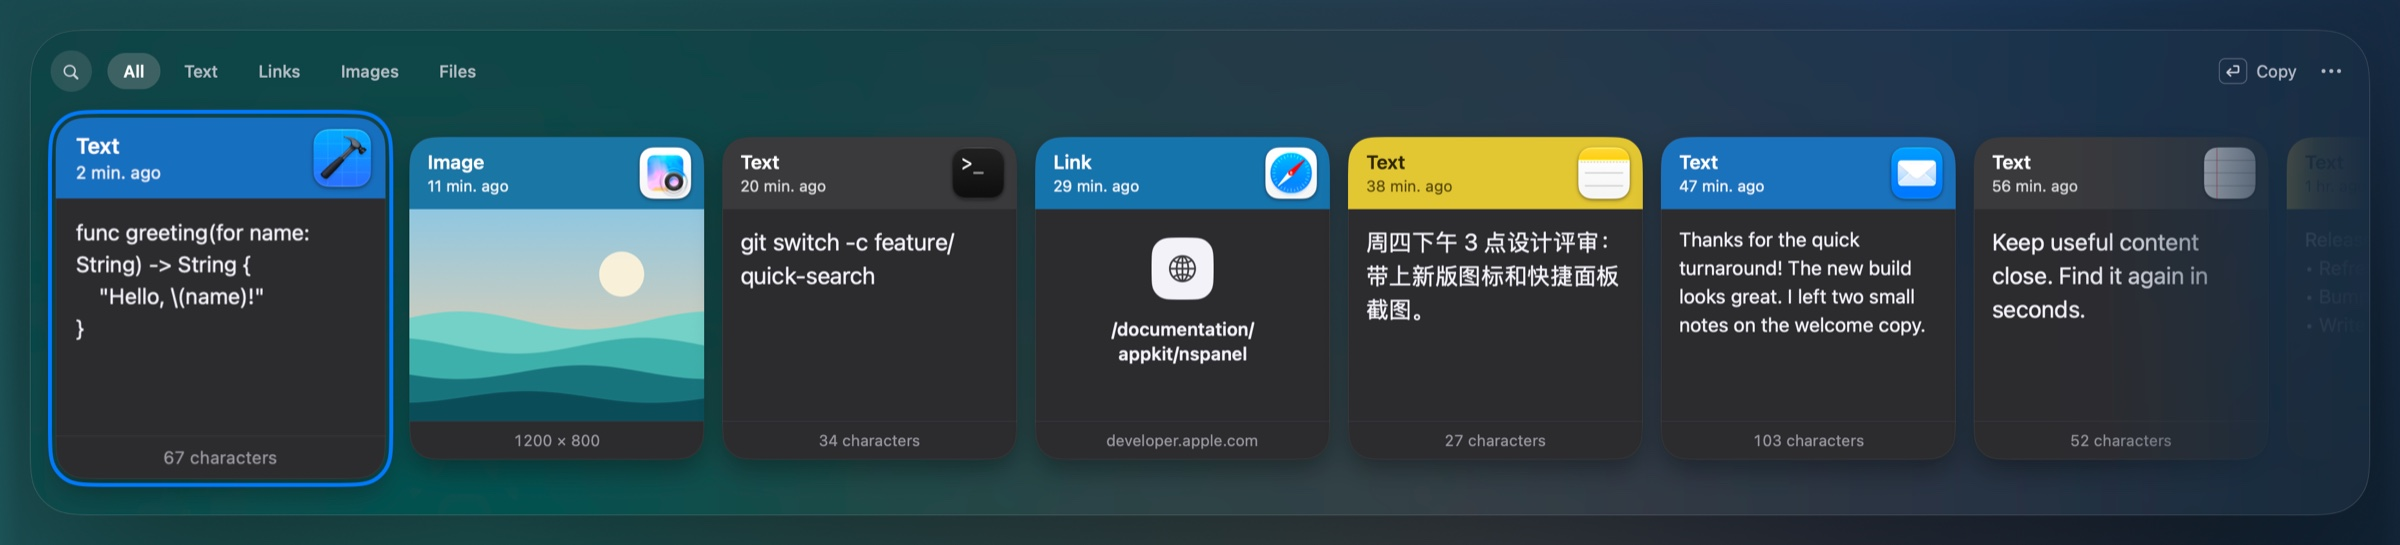
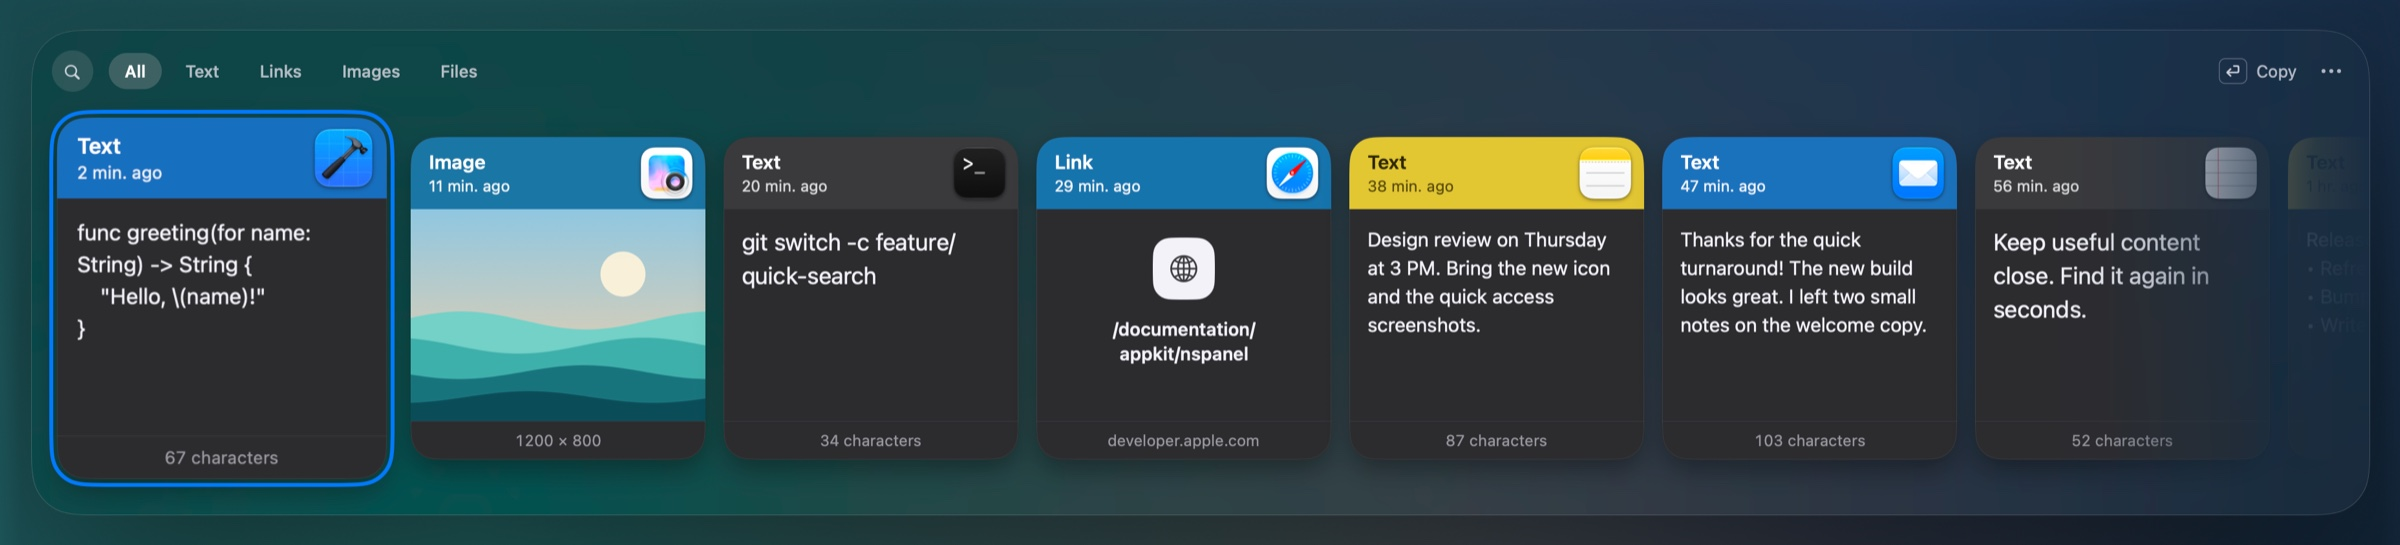
Retake the README screenshots with English-only content
The quick access and library screenshots showed a sample note in Chinese.
Both are retaken from the current main with an English sample instead,
using the same synthetic library, backdrop and framing; the library
window is now captured as the active window. The quick access image's
description names the note accordingly.

diff --git a/README.md b/README.md
@@ -17,7 +17,7 @@
 </p>
 
 <p align="center">
-  <img src="docs/images/quick-access.jpg" alt="Keeptide quick access: a translucent band of large clip cards with Swift code, a landscape image, a Git command, a link, a Chinese note, an email reply and rich text, with the newest card selected">
+  <img src="docs/images/quick-access.jpg" alt="Keeptide quick access: a translucent band of large clip cards with Swift code, a landscape image, a Git command, a link, a meeting note, an email reply and rich text, with the newest card selected">
 </p>
 
 Keeptide remembers what you copy, such as commands, code, links, images and
